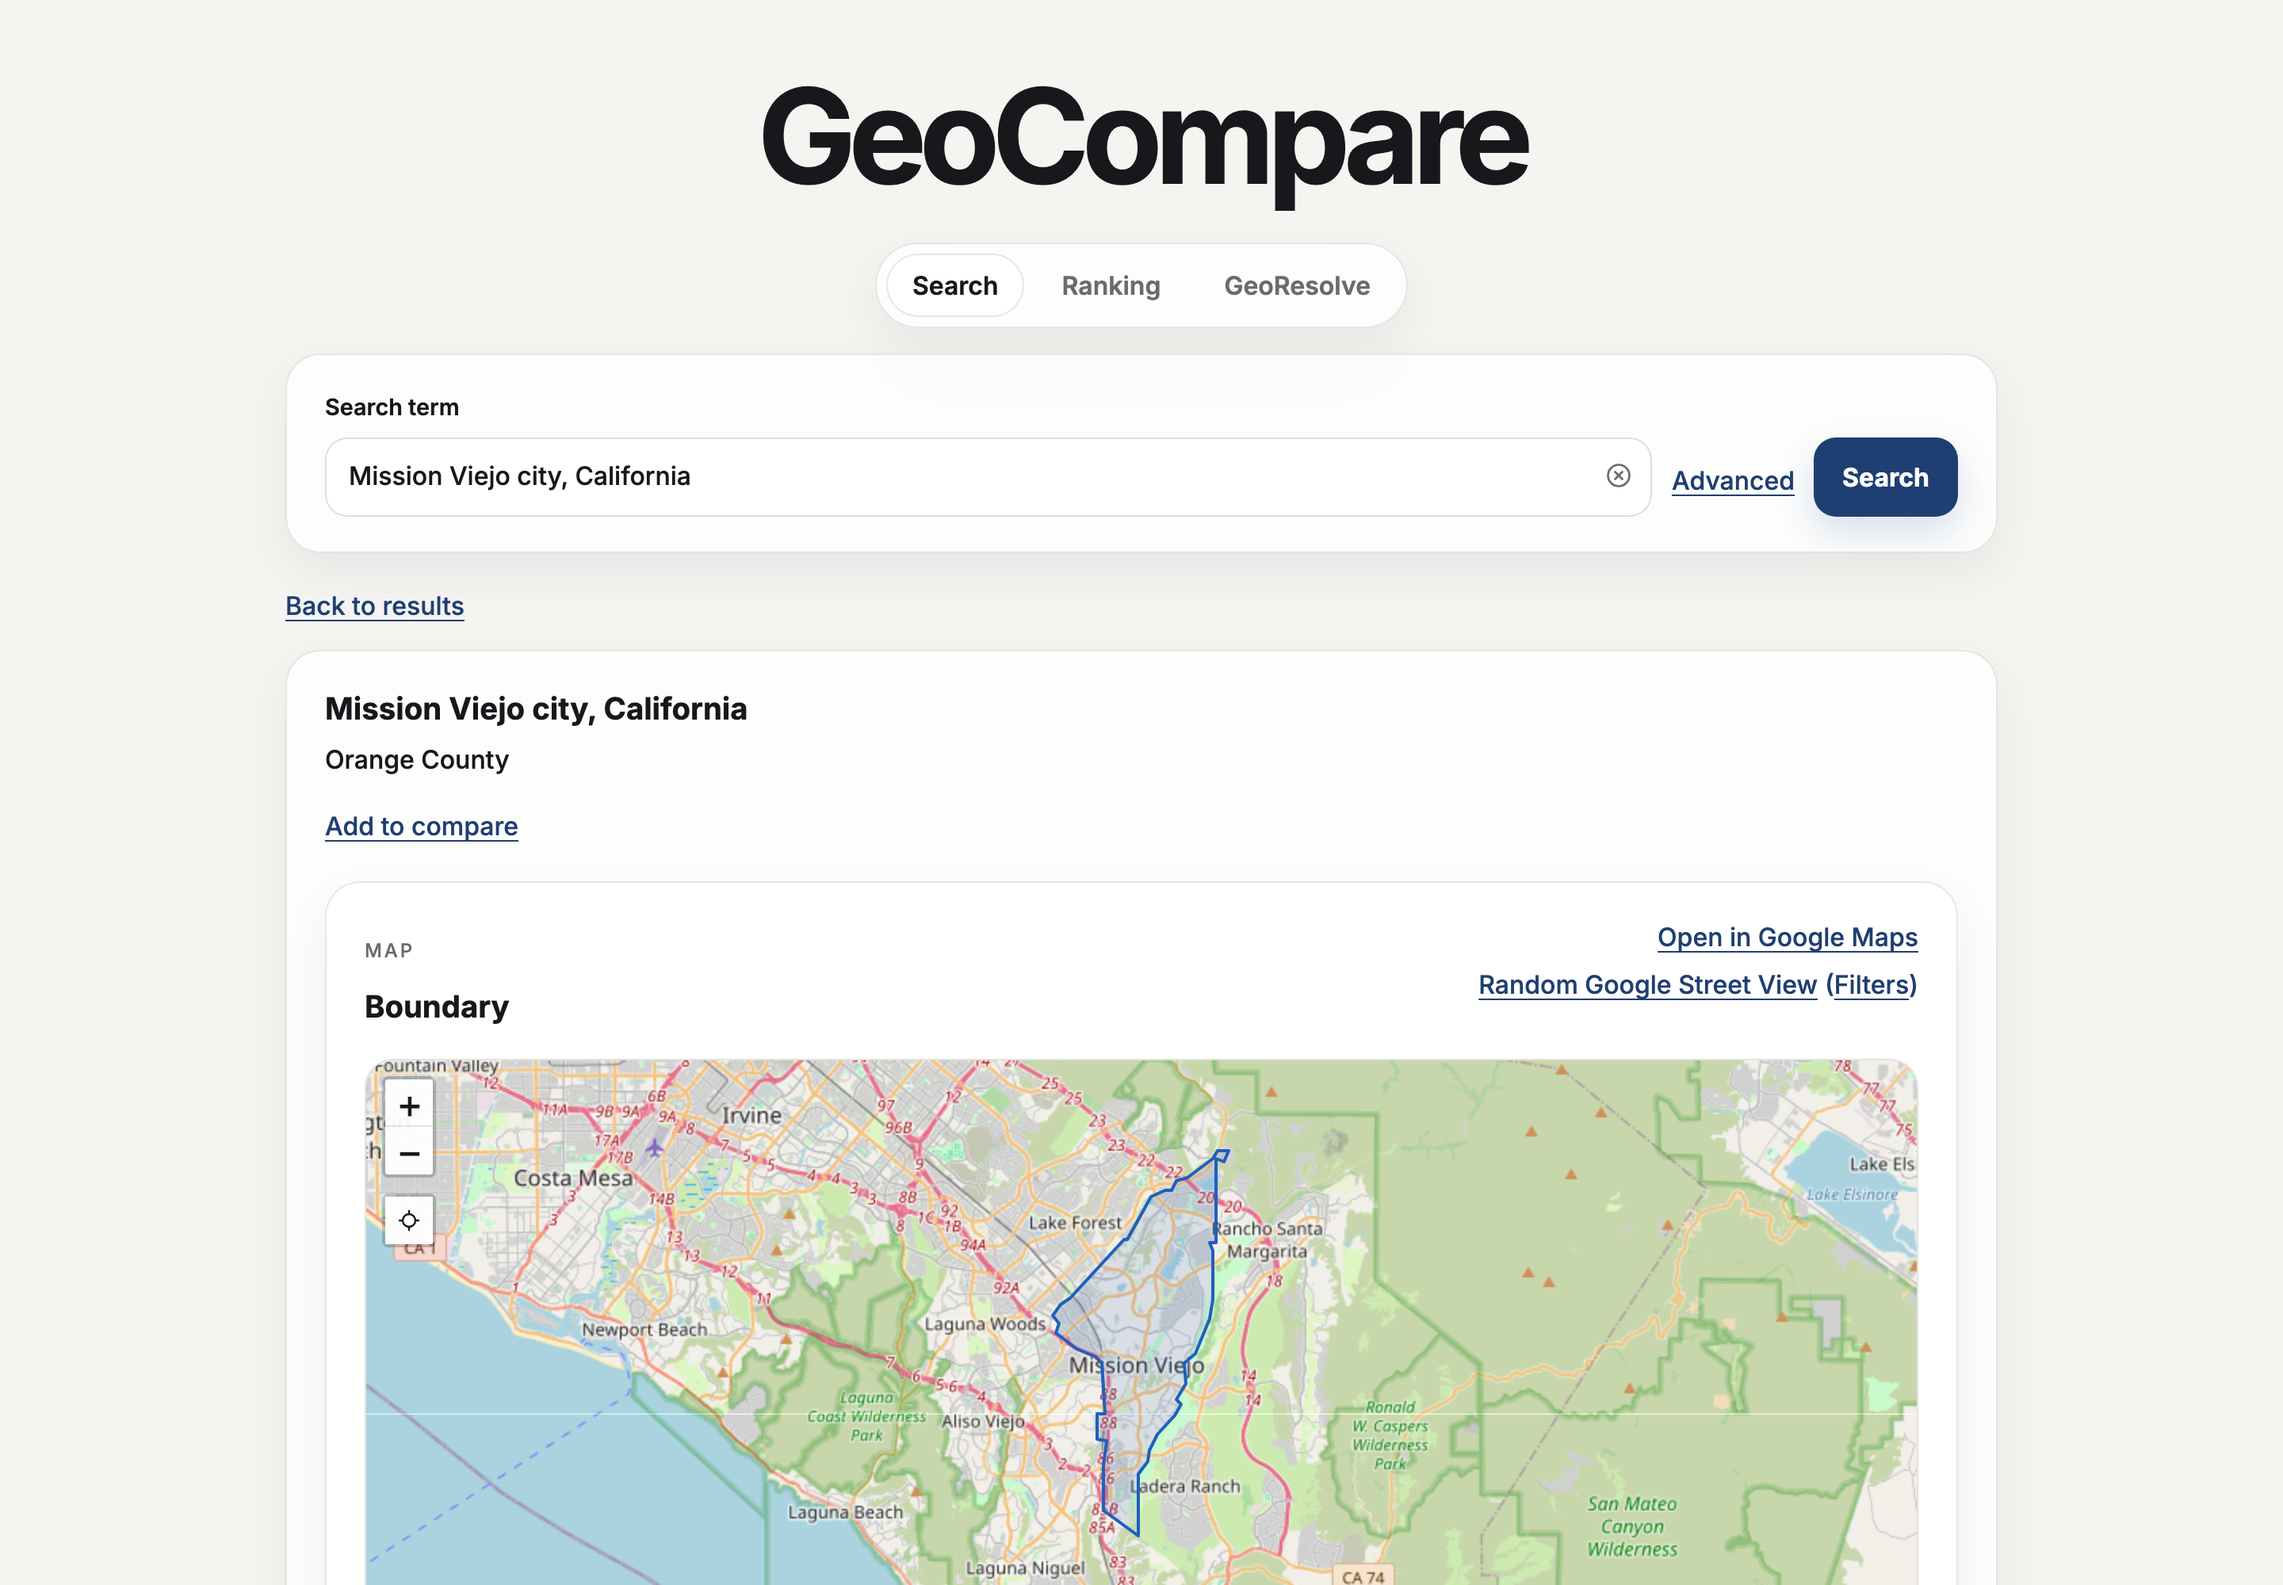
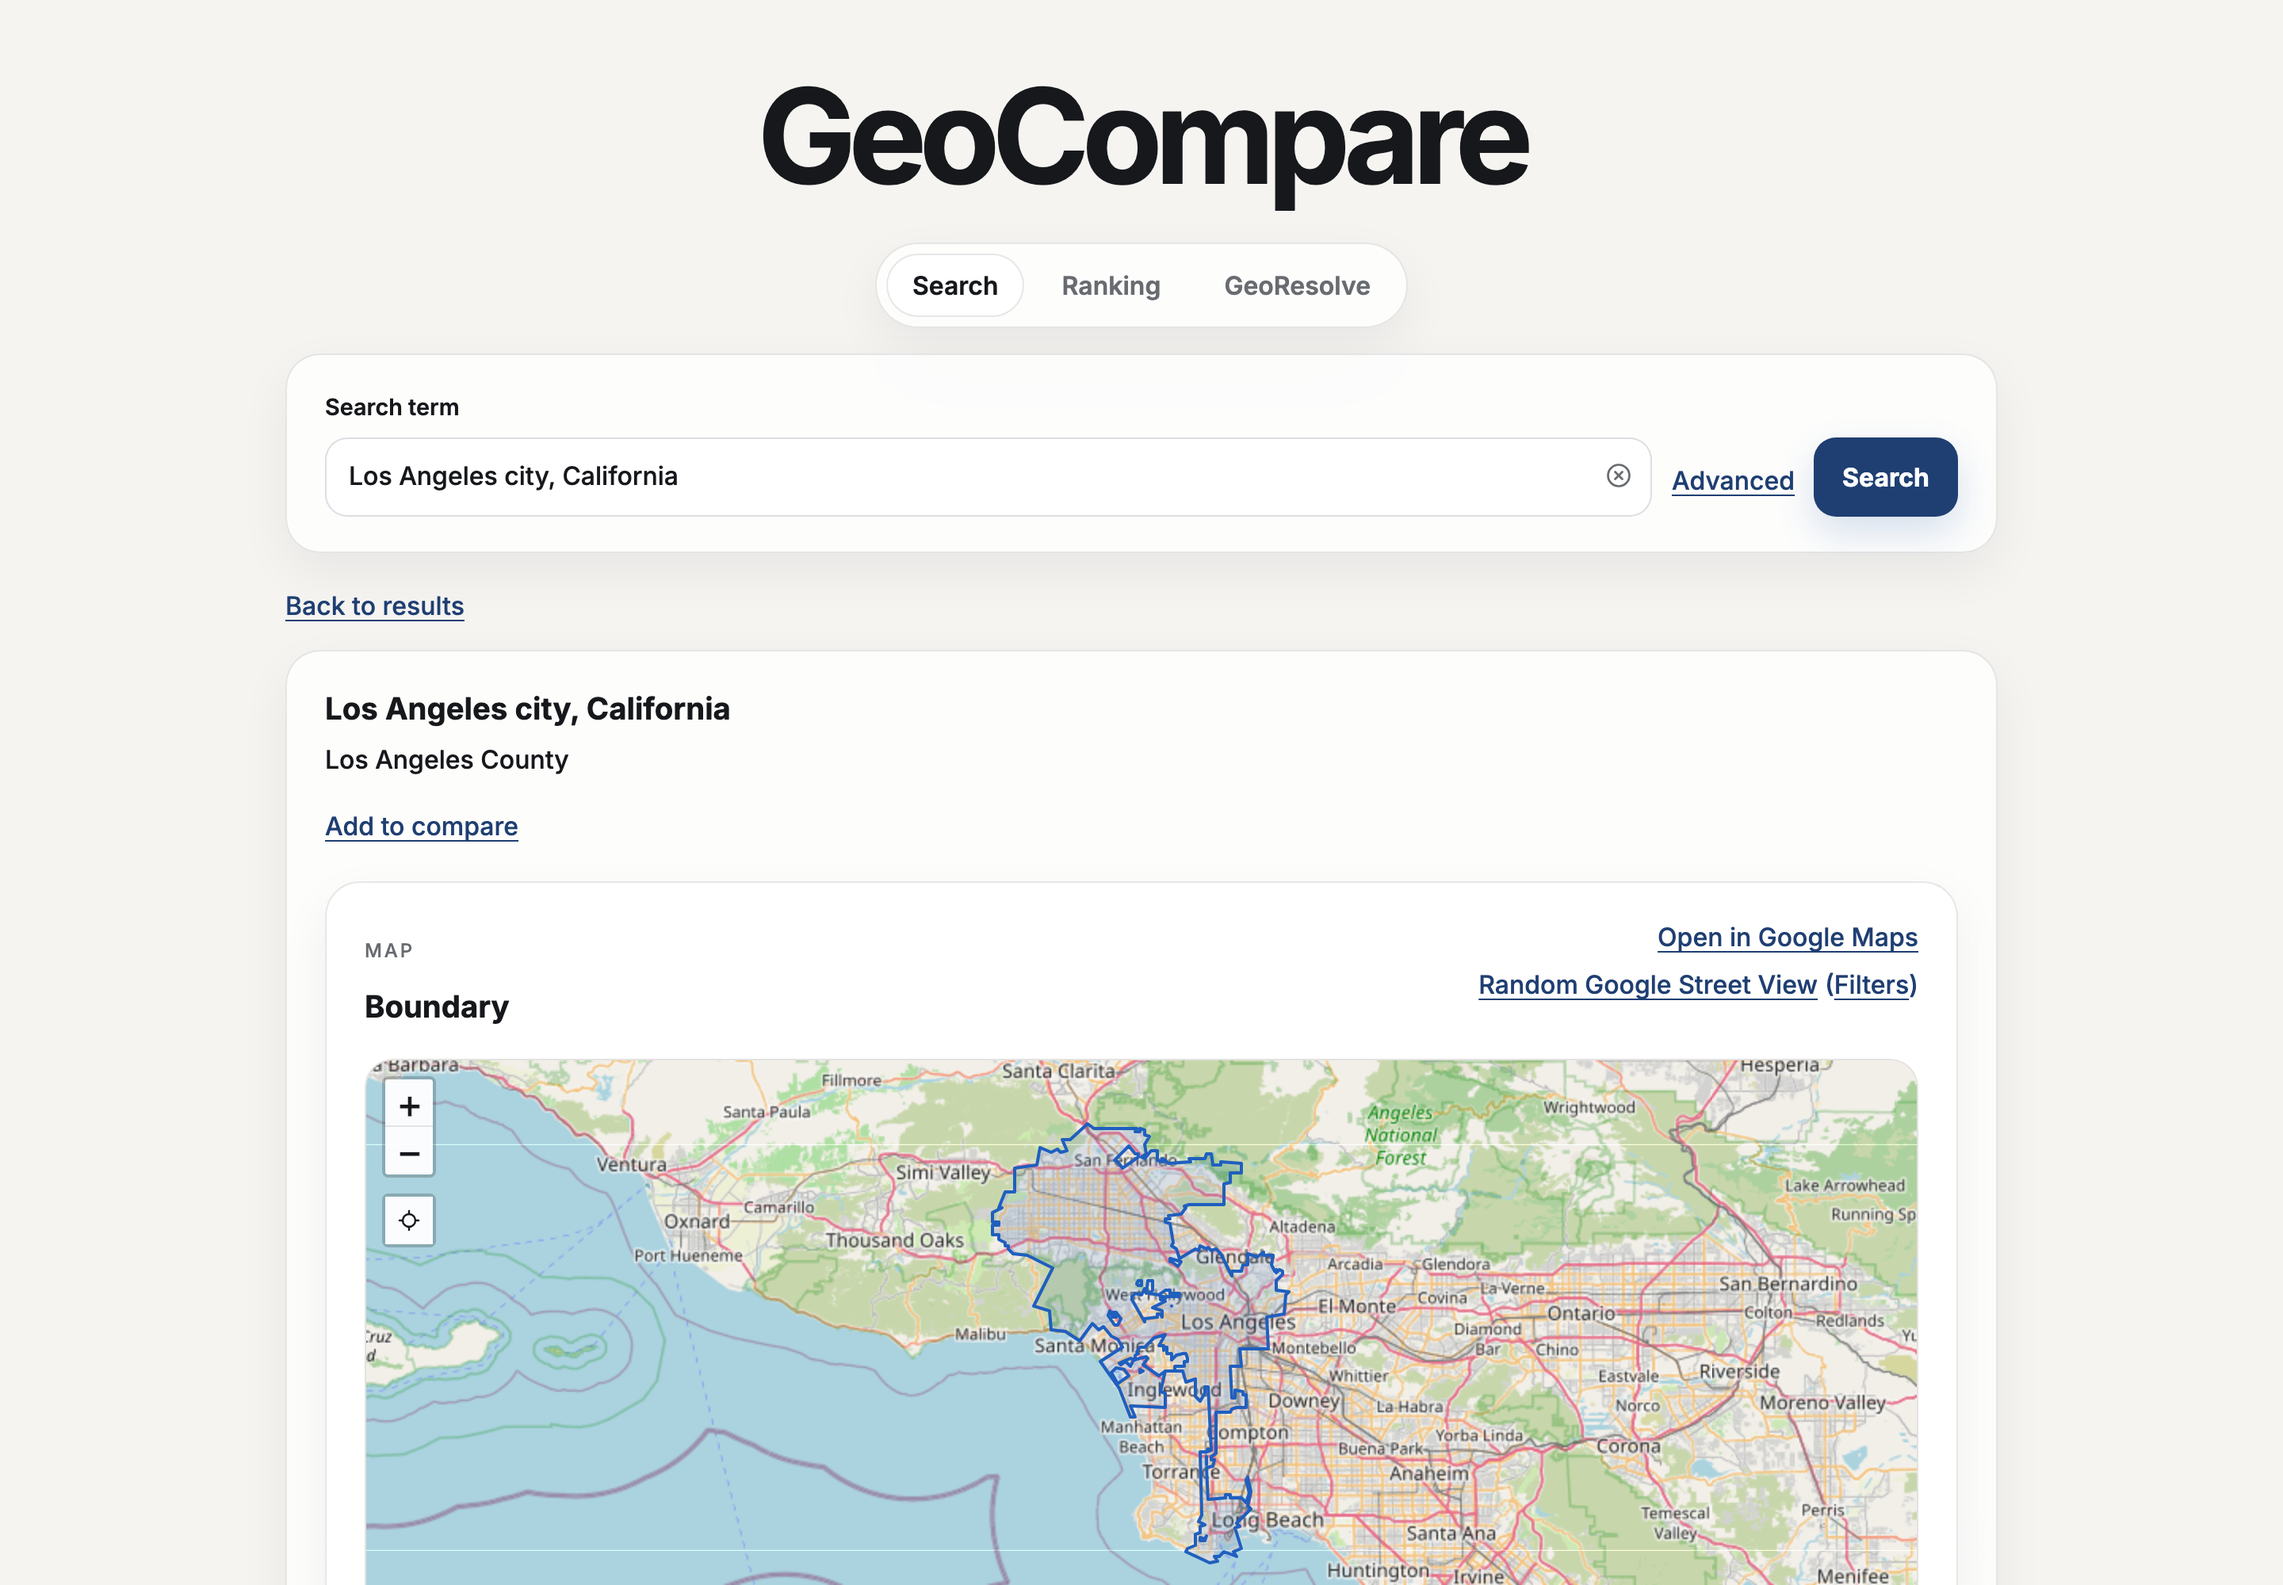
Use Los Angeles for portfolio screenshots

diff --git a/docs/portfolio/README.md b/docs/portfolio/README.md
@@ -4,11 +4,11 @@ Curated screenshots for showing GeoCompare Web in portfolios, project listings, 
 
 ## Sequence
 
-1. `screenshots/01-profile-overview.png` - Primary GeoCompare workflow showing a populated geography profile, map boundary, and core demographic context.
+1. `screenshots/01-profile-overview.png` - Primary GeoCompare workflow showing the Los Angeles, California profile and city boundary map.
 
 ## Social preview
 
-`screenshots/social-preview.png` is a `1440 x 720` crop of the primary scene for GitHub repository previews and link sharing. Upload it under the repository's social preview settings so services such as LinkedIn can use it for link cards.
+`screenshots/social-preview.png` shows the same Los Angeles scene at a `1440 x 720` viewport (`2880 x 1440` output) for GitHub repository previews and link sharing. Upload it under the repository's social preview settings so services such as LinkedIn can use it for link cards.
 
 ## Capture
 
@@ -19,6 +19,8 @@ npm run portfolio:capture
 ```
 
 The capture command starts a local Vite server, uses a fixed `1440 x 1000` viewport at `2x` scale, selects light mode and reduced motion, and supplies deterministic public demo data plus a checked-in U.S. Census boundary fixture. It does not use production credentials or personal data.
+
+The geography names and identifiers are real; the demographic metrics are illustrative fixtures, not current Los Angeles statistics. The boundary is from the Census TIGERweb Generalized ACS 2022 places layer, GEOID `0644000`. OpenStreetMap tiles load from the public tile service during capture.
 
 To capture against another running frontend while retaining the deterministic API fixture:
 

diff --git a/README.md b/README.md
@@ -2,7 +2,7 @@
 
 Web frontend for exploring GeoCompare and GeoResolve.
 
-![GeoCompare profile for Mission Viejo, California, with a boundary map and demographic overview](docs/portfolio/screenshots/01-profile-overview.png)
+![GeoCompare profile for Los Angeles, California, with a city boundary map](docs/portfolio/screenshots/01-profile-overview.png)
 
 ## What it does
 
